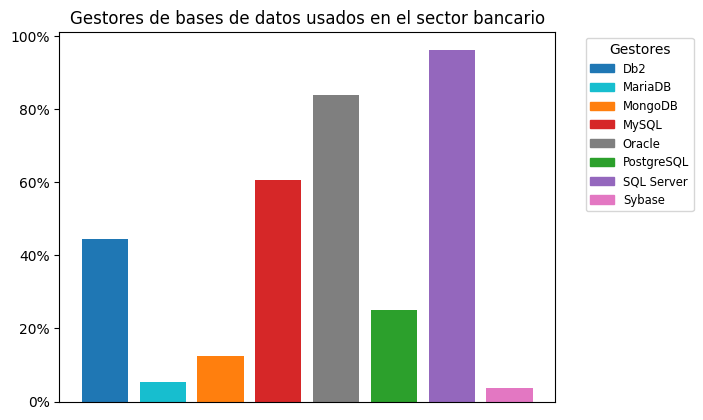
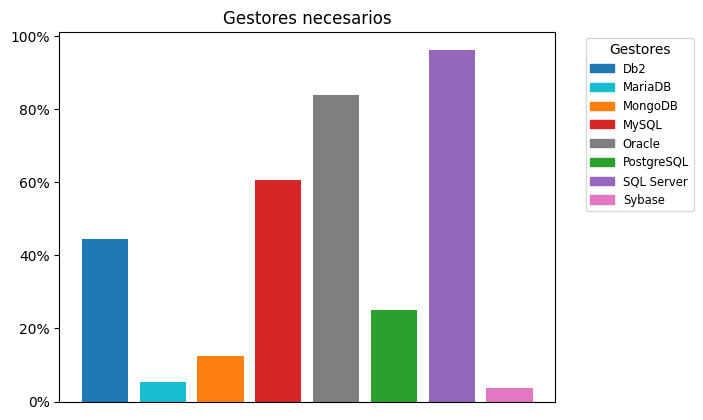
Lenguajes de programacion

Changed region(s): [[0.0896, 0.031, 0.7767, 0.0619]]

diff --git a/make_graphics.py b/make_graphics.py
@@ -6,6 +6,8 @@ from matplotlib.patches import Patch
 import pandas as pd
 from instrumento import Instrumento
 
+from make_bar import make_bar
+
 ins = Instrumento()
 estudiantes, empleados_de_bancos = ins.getData()
 poblacion = estudiantes + empleados_de_bancos
@@ -65,24 +67,6 @@ centros_de_estudio = []
 bancos_laborados = []
 areas_de_desempenio = []
 
-"""
-# Habilidades tecnicas
-lenguajes_de_programacion = []
-uso_de_librerias = []
-uso_de_frameworks = []
-desa_app_web = []
-desa_app_escritorio = []
-desa_app_movil = []
-desa_embebidos = []
-metodologias_de_desarrollo = []
-ataques_informaticos = []
-buenas_practicas_de_seguridad = []
-protocolos_de_redes = []
-conocimientos_basico_redes = []
-operaciones_en_bases = []
-administracion_bases = []
-"""
-
 # Habilidades tecnicas necesarias
 habilidades_necesarias = []
 
@@ -98,11 +82,10 @@ certificados = []
 bases_mas_usadas = []
 
 # Sistemas operativos mas usados
-so_mas_usados = []
+so_usados = []
 
 # Lenguajes mas usados
-lenguajes_mas_usados = []
-
+lenguajes_usados = []
 #############################################################################
 
 # Colores
@@ -175,24 +158,12 @@ for individuo in empleados_de_bancos:
     #Gestores de bases de datos
     gestores_bd = gestores_bd + individuo["Según su experiencia, ¿qué gestores de base de datos debe conocer un ingeniero en sistemas para laborar en una entidad bancaria? (Puede escoger más de una opción)"].split(";")
 
+    #Sistemas Operativos
+    so_usados = so_usados + individuo["Según su experiencia, ¿qué sistemas operativos debe saber utilizar un ingeniero en sistemas para poder laborar en una entidad bancaria?\xa0\xa0(Puede escoger más de una opción)"].split(";")
 
-"""
-    # Habilidades tecnicas
-    lenguajes_de_programacion.append([""])
-    uso_de_librerias.append([""])
-    uso_de_frameworks.append([""])
-    desa_app_web.append([""])
-    desa_app_escritorio.append([""])
-    desa_app_movil.append([""])
-    desa_embebidos.append([""])
-    metodologias_de_desarrollo.append([""])
-    ataques_informaticos.append([""])
-    buenas_practicas_de_seguridad.append([""])
-    protocolos_de_redes.append([""])
-    conocimientos_basico_redes.append([""])
-    operaciones_en_bases.append([""])
-    administracion_bases.append([""])
-"""
+    #Lenguajes de programación
+    lenguajes_usados = lenguajes_usados + individuo["Según su experiencia, ¿qué lenguajes de programación debe conocer un ingeniero en sistemas para poder laborar en una entidad bancaria?\xa0(Puede escoger más de una opción)"].split(";")
+
 
 ################ Habilidades Blandas ################
 
@@ -686,40 +657,14 @@ habilidades_set, habilidades_count = np.unique(habilidades_necesarias, return_co
 
 hab_pro = (habilidades_count / len(empleados_de_bancos)) * 100
 
-hab_df = pd.DataFrame({
-    'Habilidades': habilidades_set,
-    'Porcentaje': hab_pro
-    })
-hab_df = hab_df.drop(labels=0, axis=0)
-
-fig, ax = plt.subplots()
-ax.bar('Habilidades', 'Porcentaje', data=hab_df, color=['tab:blue', 'tab:cyan', 'tab:orange', 'tab:red', 'tab:gray', 'tab:green', 'tab:purple', 'tab:pink', 'm', 'tab:olive'])
-
-plt.tick_params(
-    axis='x',        
-    which='both',   
-    bottom=False,  
-    top=False,    
-    labelbottom=False)
-
-plt.title("Habilidades necesarias para trabajar en el sector")
-
-fontP = FontProperties()
-fontP.set_size('small')
-
-cmap = dict(zip(areas_df['Areas'].tolist(), ['tab:blue', 'tab:cyan', 'tab:orange', 'tab:red', 'tab:gray', 'tab:green', 'tab:purple', 'tab:pink', 'm', 'tab:olive']))
-
-patches = [Patch(color=v, label=k) for k, v in cmap.items()]
-
-ax.yaxis.set_major_formatter(mtick.PercentFormatter())
-plt.legend(labels=hab_df['Habilidades'].tolist(), handles=patches, title='Habilidades', bbox_to_anchor=(1.05, 1), loc='upper left', prop=fontP)
-
-plt.savefig("./fig/habilidades_necesarias.png", dpi=None, facecolor='w', edgecolor='w',
-        orientation='portrait', format=None,
-        transparent=False, bbox_inches='tight', pad_inches=0.1,
-        metadata=None)
-plt.clf()
-
+make_bar(
+        data=habilidades_set,
+        por=hab_pro,
+        title="Habilidades necesarias para trabajar en el sector",
+        name="Habilidades",
+        file_name="./fig/habilidades_necesarias.png",
+        drop_df=True
+        )
 
 ############ Gestores de bases de datos usados ############
 gestores_bd = np.array(gestores_bd)
@@ -728,43 +673,48 @@ gestores_set, gestores_count = np.unique(gestores_bd, return_counts=True)
 
 gestores_pro = (gestores_count / len(empleados_de_bancos)) * 100
 
-gestores_df = pd.DataFrame({
-    'Gestores': gestores_set,
-    'Porcentaje': gestores_pro
-    })
-gestores_df = gestores_df.drop(labels=0, axis=0)
-
-fig, ax = plt.subplots()
-ax.bar('Gestores', 'Porcentaje', data=gestores_df, color=['tab:blue', 'tab:cyan', 'tab:orange', 'tab:red', 'tab:gray', 'tab:green', 'tab:purple', 'tab:pink', 'm', 'tab:olive'])
-
-plt.tick_params(
-    axis='x',        
-    which='both',   
-    bottom=False,  
-    top=False,    
-    labelbottom=False)
-
-plt.title("Gestores de bases de datos usados en el sector bancario")
-
-fontP = FontProperties()
-fontP.set_size('small')
-
-cmap = dict(zip(gestores_df['Gestores'].tolist(), ['tab:blue', 'tab:cyan', 'tab:orange', 'tab:red', 'tab:gray', 'tab:green', 'tab:purple', 'tab:pink', 'm', 'tab:olive']))
-
-patches = [Patch(color=v, label=k) for k, v in cmap.items()]
-
-ax.yaxis.set_major_formatter(mtick.PercentFormatter())
-plt.legend(labels=gestores_df['Gestores'].tolist(), handles=patches, title='Gestores', bbox_to_anchor=(1.05, 1), loc='upper left', prop=fontP)
-
-plt.savefig("./fig/gestores_bd.png", dpi=None, facecolor='w', edgecolor='w',
-        orientation='portrait', format=None,
-        transparent=False, bbox_inches='tight', pad_inches=0.1,
-        metadata=None)
-plt.clf()
+make_bar(
+        data=gestores_set,
+        por=gestores_pro,
+        title="Gestores necesarios",
+        name="Gestores",
+        file_name="./fig/gestores_bd.png",
+        drop_df=True
+        )
 
 
+############ Sistemas operativos que saben usar los empleados ############
 
+so_usados = np.array(so_usados)
 
+so_set, so_count = np.unique(so_usados, return_counts=True)
+
+so_pro = (so_count / len(empleados_de_bancos)) * 100
+
+make_bar(
+        data=so_set,
+        por=so_pro,
+        title="Sistemas operativos",
+        name="SO",
+        file_name="./fig/so_usados.png",
+        drop_df=True
+        )
+############ Lenguajes de programación que saben usar los empleados ############
+
+lenguajes_usados = np.array(lenguajes_usados)
+
+so_set, so_count = np.unique(lenguajes_usados, return_counts=True)
+
+so_pro = (so_count / len(empleados_de_bancos)) * 100
+
+make_bar(
+        data=so_set,
+        por=so_pro,
+        title="Lenguajes de programación usados",
+        name="Lenguajes",
+        file_name="./fig/lenguajes_usados.png",
+        drop_df=True
+        )
 
 
 

diff --git a/make_bar.py b/make_bar.py
@@ -1,0 +1,44 @@
+import numpy as np
+import matplotlib.pyplot as plt
+import matplotlib.ticker as mtick
+from matplotlib.font_manager import FontProperties
+from matplotlib.patches import Patch
+import pandas as pd
+
+def make_bar(data, por, title, name, file_name, drop_df=False):
+    df = pd.DataFrame({
+        'Label': data,
+        'Value': por
+        })
+
+    if drop_df:
+        df = df.drop(labels=0, axis=0)
+
+    fig, ax = plt.subplots()
+    ax.bar('Label', 'Value', data=df, color=['tab:blue', 'tab:cyan', 'tab:orange', 'tab:red', 'tab:gray', 'tab:green', 'tab:purple', 'tab:pink', 'm', 'tab:olive','tab:brown', 'mediumseagreen','k'])
+
+    plt.tick_params(
+        axis='x',        
+        which='both',   
+        bottom=False,  
+        top=False,    
+        labelbottom=False)
+
+    plt.title(title)
+
+    fontP = FontProperties()
+    fontP.set_size('small')
+
+    cmap = dict(zip(df['Label'].tolist(), ['tab:blue', 'tab:cyan', 'tab:orange', 'tab:red', 'tab:gray', 'tab:green', 'tab:purple', 'tab:pink', 'm', 'tab:olive','tab:brown', 'mediumseagreen','k']))
+
+    patches = [Patch(color=v, label=k) for k, v in cmap.items()]
+
+    ax.yaxis.set_major_formatter(mtick.PercentFormatter())
+    plt.legend(labels=df['Label'].tolist(), handles=patches, title=name, bbox_to_anchor=(1.05, 1), loc='upper left', prop=fontP)
+
+    plt.savefig(file_name, dpi=None, facecolor='w', edgecolor='w',
+        orientation='portrait', format=None,
+        transparent=False, bbox_inches='tight', pad_inches=0.1,
+        metadata=None)
+    plt.clf()
+
